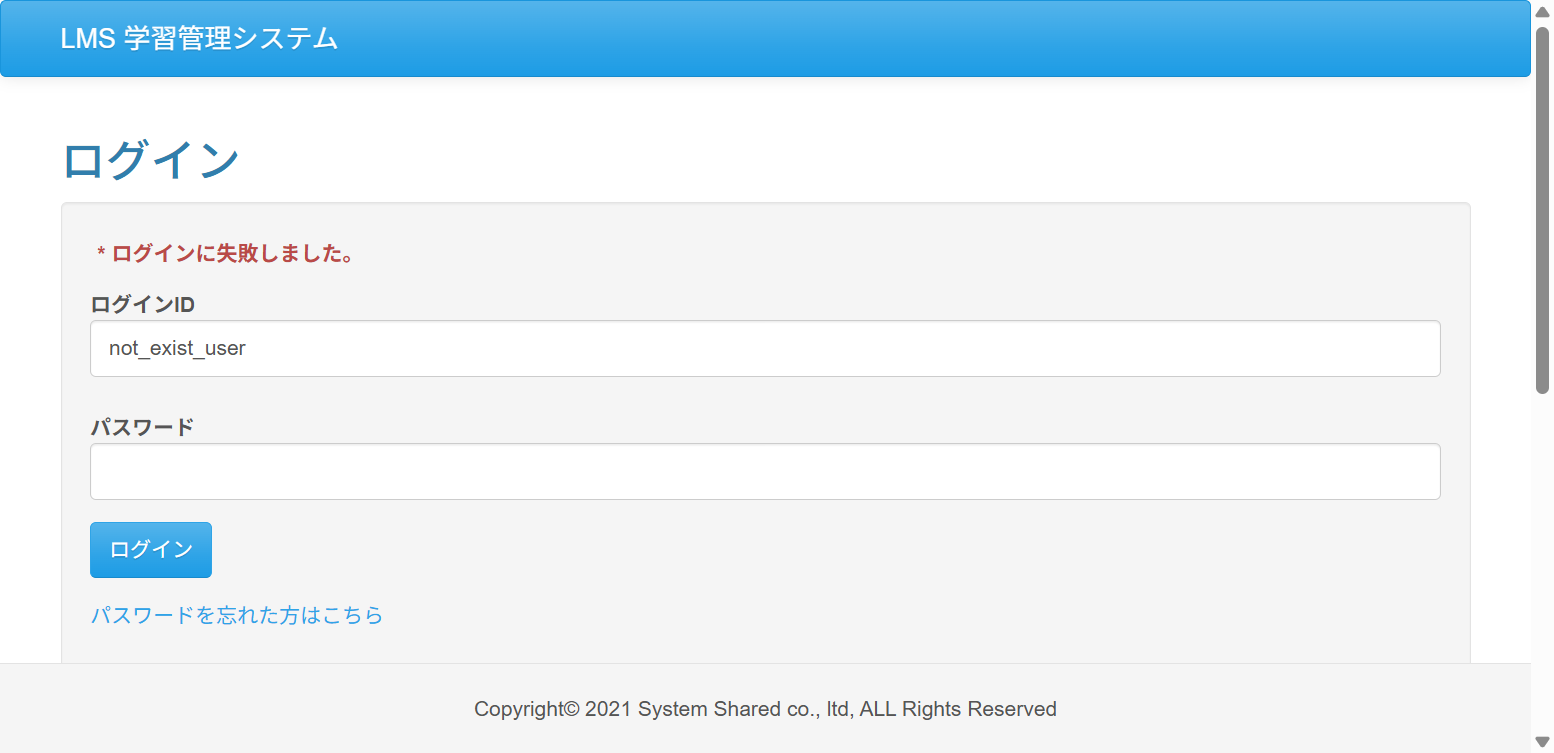
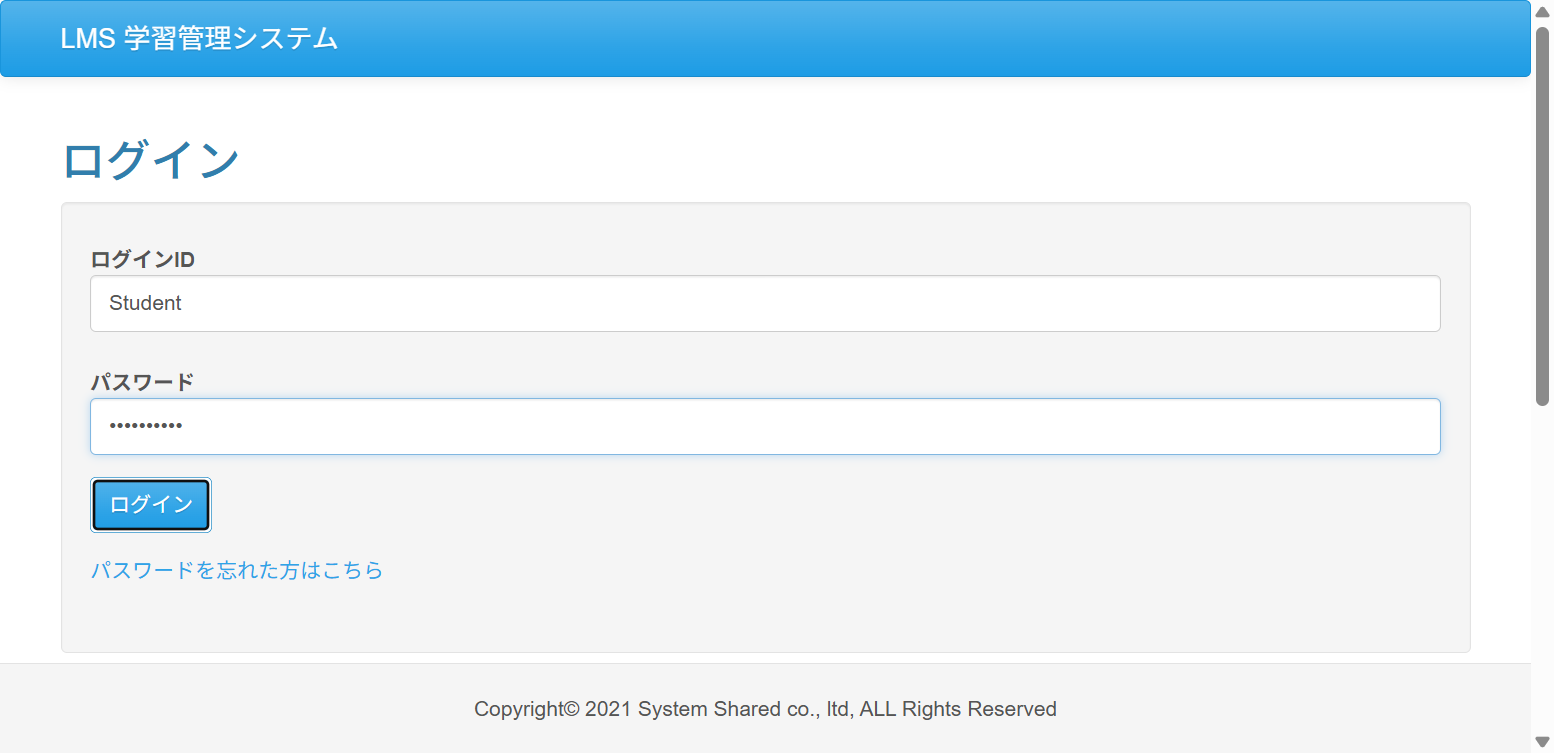
fix:Case02 岡山 ログインIDの変更
エビデンスとのずれがあったため、ログインIDを変更した。

diff --git a/test_code_creation_name/src/test/java/jp/co/sss/lms/ct/f01_login1/Case02.java b/test_code_creation_name/src/test/java/jp/co/sss/lms/ct/f01_login1/Case02.java
@@ -54,7 +54,7 @@ public class Case02 {
 	@DisplayName("テスト02 DBに登録されていないユーザーでログイン")
 	void test02() {
 		//DBに登録されていないログインIDとパスワードを入力
-		webDriver.findElement(By.name("loginId")).sendKeys("not_exist_user");
+		webDriver.findElement(By.name("loginId")).sendKeys("Student");
 		webDriver.findElement(By.name("password")).sendKeys("ItTest2025");
 
 		//ログインボタンの押下
